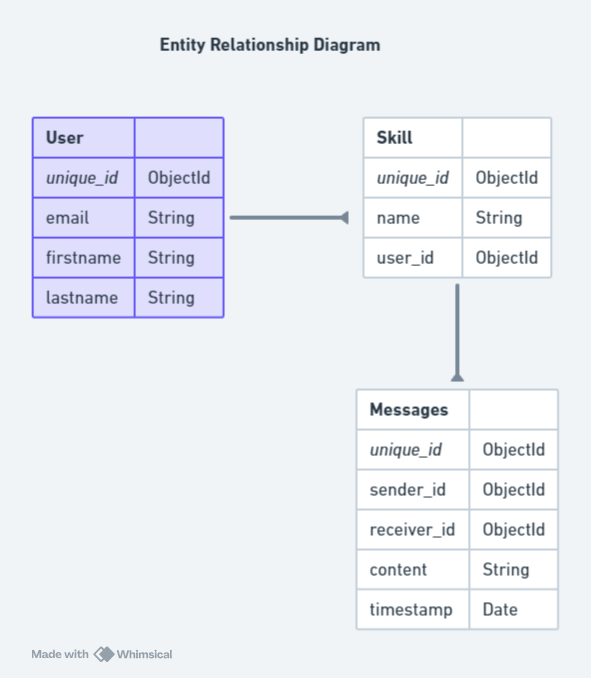
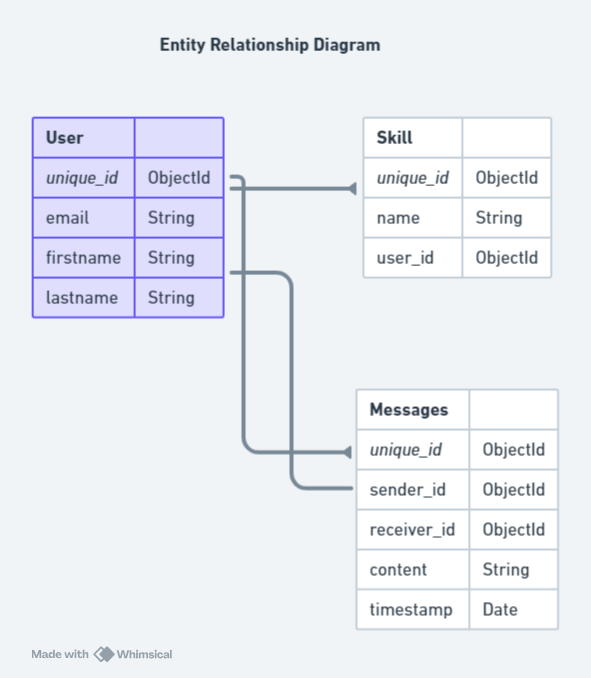
system architecture A-08

Changed region(s): [[0.3959, 0.2478, 0.6091, 0.7434], [0.7614, 0.4027, 0.7919, 0.5885]]

diff --git a/SkillNet Architecture.md b/SkillNet Architecture.md
@@ -21,11 +21,13 @@ Overall, this architecture enables SkillNet to provide a seamless user experienc
 
 The entity diagram displays the structure of the database schema for the SkillNet application.
 
-- User: Represents the user profile with attributes such as unique_id (ObjectId), firstName, lastName, email, password, and an array of skills. Each user has a unique identifier, and they can have multiple skills associated with them.
+- User and Skill:
+Many-to-Many Relationship: Multiple users can possess the same skill, and a user can possess multiple skills.
+Relationship Representation: Each user document contains a list (or array) of skill identifiers, indicating the skills possessed by that user. Similarly, each skill document may contain a list (or array) of user identifiers, representing the users who possess that skill.
 
-- Skill: Represents a skill possessed by a user. It contains attributes such as unique_id (ObjectId), name, and a reference to the user who owns the skill through the user_id field. Each skill is uniquely identified, and it is associated with one user.
-
-- Message: Represents a message exchanged between users. It includes attributes such as unique_id (ObjectId), sender_id, receiver_id, content, and timestamp. Each message has a unique identifier and is associated with one sender and one receiver.
+- User and Message:
+Many-to-Many Relationship: Each user can send and receive multiple messages.
+Relationship Representation: This relationship is represented by the sender_id and receiver_id fields in the Message entity. Each message has one sender (user) and one receiver (user). Therefore, each user can be associated with multiple messages as both sender and receiver.
 
 This schema enables the SkillNet application to store user profiles, their associated skills, and facilitate communication between users through messages.
 
